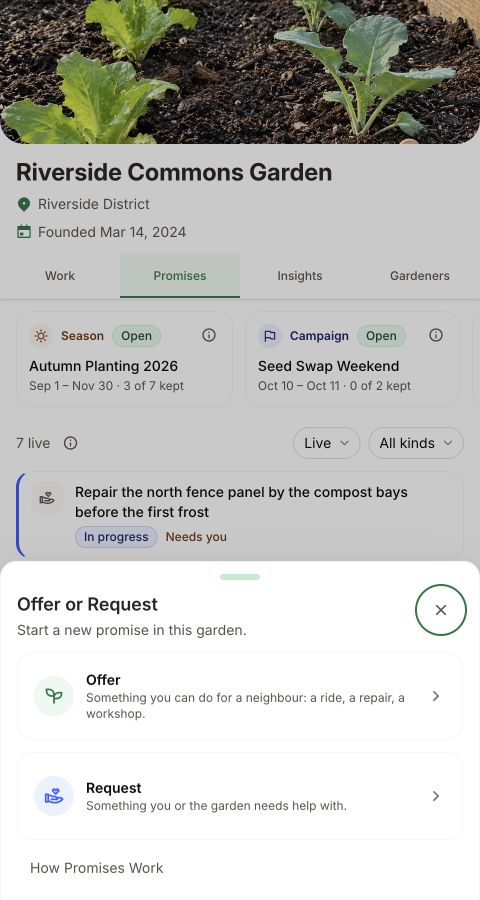
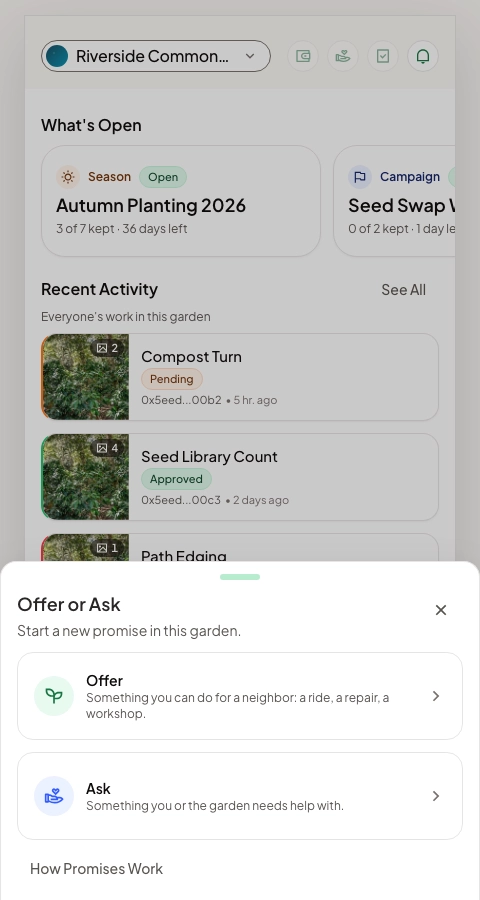
docs(client): show Offer or Ask on Home in the promise guide
The Make a Promise guide's choice image still showed the garden page's
Promises tab. It now shows the Offer or Ask sheet open over Home, captured
at 480x900 from a Home story in the fictional Riverside Commons Garden,
with its ledger entry and alt text updated.

The Home stories for the + now draw the app's bottom bar and an empty
Continue, so the + sits where it does in the app, and split into a
resting and an open story.

Agent-Model: claude-opus-5-5/high

diff --git a/packages/client/src/views/Home/Home.stories.tsx b/packages/client/src/views/Home/Home.stories.tsx
@@ -11,12 +11,18 @@ import {
 import { useConvictionStrategies } from "@green-goods/shared/hooks/conviction/useConvictionStrategies";
 import { useActiveGarden } from "@green-goods/shared/hooks/garden/useActiveGarden";
 import { usePoolAccess } from "@green-goods/shared/hooks/client-ui/pool/useGardenPoolController";
+import {
+  useGardenOpenCycles,
+  useGardenOpenPromises,
+  useGardenRecentActivity,
+} from "@green-goods/shared/hooks/garden/useGardenJournal";
 import { useAwaitingJoinRequests } from "@green-goods/shared/hooks/garden/useGardenJoinRequests";
 import { useGardenNotifications } from "@green-goods/shared/hooks/garden/useGardenNotifications";
 import { useHasRole } from "@green-goods/shared/hooks/roles/useHasRole";
 import { useGardenVaults } from "@green-goods/shared/hooks/vault/useGardenVaults";
 import { useVaultDeposits } from "@green-goods/shared/hooks/vault/useVaultDeposits";
 import { useWorks } from "@green-goods/shared/hooks/work/useWorks";
+import { useYourWorkOnPhone } from "@green-goods/shared/hooks/work/useYourWorkOnPhone";
 import { useYourWorkCount } from "@green-goods/shared/hooks/work/useYourWorkCount";
 import { ToastViewport } from "@green-goods/shared/components/Toast/ToastViewport";
 import en from "@green-goods/shared/i18n/en";
@@ -42,8 +48,18 @@ import {
   TAS_HUB,
   VIDA_VERDE,
 } from "../../../../shared/.storybook/homeFixtures";
+import {
+  JOURNEY_GARDEN,
+  JOURNEY_GARDEN_RECORD,
+} from "../../../../shared/.storybook/clientJourneyFixtures";
+import {
+  openCyclesFixture,
+  openPromisesFixture,
+  recentActivityFixture,
+} from "../../../../shared/.storybook/homeJournalFixtures";
 import { resetHookMocks } from "../../../../shared/.storybook/moduleMocks";
 import { notificationEvents } from "../../../../shared/.storybook/notificationFixtures";
+import { AppBar } from "../../components/Layout/AppBar";
 import Home from "./index";
 
 const ROOT_GARDEN =
@@ -189,25 +205,78 @@ export const OneGarden: Story = {
 };
 
 /**
- * Offer or Ask (DL-181): a gardener whose garden has an open pool gets the garden page's + over
- * the journal, 16px above the bottom bar, opening the same sheet and its two doors.
+ * A gardener of the fictional Riverside Commons Garden, whose pool is open, on a Home with its
+ * journal read: the state the Offer or Ask stories and the Make a Promise guide's capture share.
+ */
+function offerOrAskState() {
+  const resetHome = homeState(
+    activeGarden("ready", [memberGarden(JOURNEY_GARDEN_RECORD, ["gardener"])], JOURNEY_GARDEN)
+  )();
+  mocked(useCommitmentPools).mockReturnValue({
+    pools: [
+      { poolId: 1n, garden: JOURNEY_GARDEN.toLowerCase(), state: "OPEN", poolType: "GARDEN" },
+    ],
+    availability: { status: "available" },
+  } as unknown as ReturnType<typeof useCommitmentPools>);
+  mocked(usePoolAccess).mockReturnValue({ canCreate: true, stewardsPool: false });
+  mocked(useGardenRecentActivity).mockReturnValue(recentActivityFixture());
+  mocked(useGardenOpenCycles).mockReturnValue(openCyclesFixture());
+  mocked(useGardenOpenPromises).mockReturnValue(openPromisesFixture());
+  // Nothing of the gardener's waits on this phone, so Continue reads empty.
+  mocked(useYourWorkOnPhone).mockReturnValue({
+    submissions: [],
+    decisions: [],
+    drafts: [],
+    proofs: [],
+    decisionFor: () => undefined,
+    isLinked: () => false,
+    count: 0,
+    isLoading: false,
+    isError: false,
+    queueUnreadable: false,
+    refetch: () => undefined,
+  } as unknown as ReturnType<typeof useYourWorkOnPhone>);
+  const resetJournal = resetHookMocks(
+    usePoolAccess,
+    useGardenRecentActivity,
+    useGardenOpenCycles,
+    useGardenOpenPromises,
+    useYourWorkOnPhone
+  );
+  return () => {
+    resetHome();
+    resetJournal();
+  };
+}
+
+/** Home over the app's bottom bar, as the installed app draws it, so the + sits where it does. */
+function HomeWithAppBar() {
+  return (
+    <div className="pb-[calc(69px+var(--safe-area-bottom))]">
+      <Home />
+      <AppBar />
+    </div>
+  );
+}
+
+/**
+ * Offer or Ask at rest (DL-181): a gardener whose garden has an open pool gets the garden page's
+ * + over the journal, 16px above the bottom bar.
  */
 export const OfferOrAsk: Story = {
-  beforeEach: () => {
-    const resetHome = homeState(
-      activeGarden("ready", [memberGarden(AIYELOJA, ["gardener"])], AIYELOJA.id)
-    )();
-    mocked(useCommitmentPools).mockReturnValue({
-      pools: [{ poolId: 1n, garden: AIYELOJA.id.toLowerCase(), state: "OPEN", poolType: "GARDEN" }],
-      availability: { status: "available" },
-    } as unknown as ReturnType<typeof useCommitmentPools>);
-    mocked(usePoolAccess).mockReturnValue({ canCreate: true, stewardsPool: false });
-    const resetAccess = resetHookMocks(usePoolAccess);
-    return () => {
-      resetHome();
-      resetAccess();
-    };
+  beforeEach: offerOrAskState,
+  render: () => <HomeWithAppBar />,
+  play: async ({ canvasElement }) => {
+    await expect(
+      await within(canvasElement).findByRole("button", { name: "Offer or Ask" })
+    ).toBeVisible();
   },
+};
+
+/** Offer or Ask open: the + opens the garden page's own sheet with its Offer and Ask doors. */
+export const OfferOrAskOpen: Story = {
+  beforeEach: offerOrAskState,
+  render: () => <HomeWithAppBar />,
   play: async ({ canvasElement }) => {
     const canvas = within(canvasElement);
     await userEvent.click(await canvas.findByRole("button", { name: "Offer or Ask" }));
